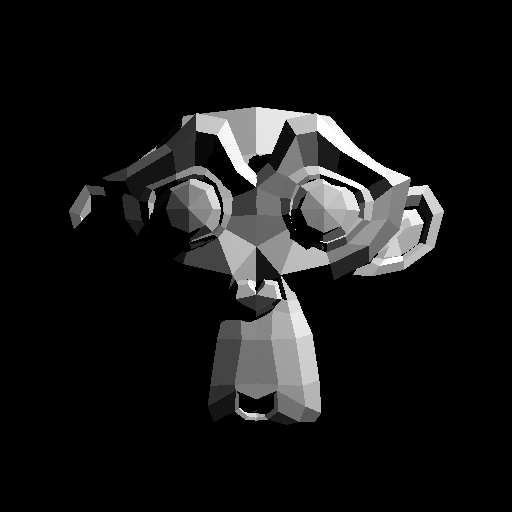
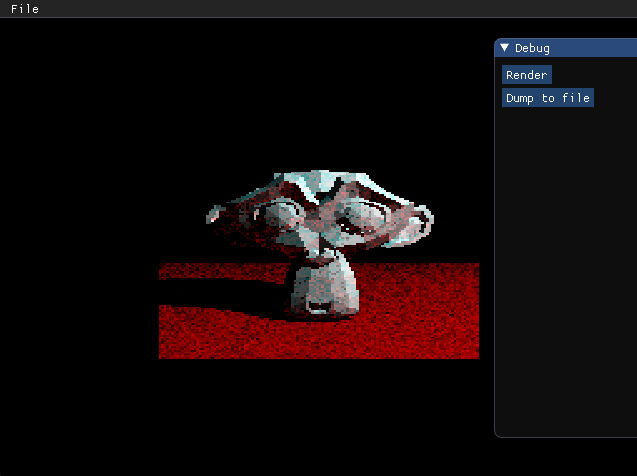
Add indirect sampling, and update README

Changed region(s): [[0.125, 0.2059, 0.875, 0.8235], [0.0, 0.0, 1.0, 0.2353]]

diff --git a/include/scene.h b/include/scene.h
@@ -6,6 +6,7 @@
 
 struct Object {
     glm::vec3 position = glm::vec3(0);
+    glm::vec3 color = glm::vec3(1);
     
     tinyobj::attrib_t attrib;
     std::vector<tinyobj::shape_t> shapes;
@@ -25,42 +26,42 @@ struct Scene {
 };
 
 inline glm::vec3 fetch_position(const Object& object, const tinyobj::mesh_t& mesh, const int32_t index, const int32_t vertex) {
-    tinyobj::index_t idx = mesh.indices[(index * 3) +vertex];
+    const tinyobj::index_t idx = mesh.indices[(index * 3) +vertex];
     
-    tinyobj::real_t vx = object.attrib.vertices[3*idx.vertex_index+0];
-    tinyobj::real_t vy = object.attrib.vertices[3*idx.vertex_index+1];
-    tinyobj::real_t vz = object.attrib.vertices[3*idx.vertex_index+2];
+    const auto vx = object.attrib.vertices[3*idx.vertex_index+0];
+    const auto vy = object.attrib.vertices[3*idx.vertex_index+1];
+    const auto vz = object.attrib.vertices[3*idx.vertex_index+2];
     
     return glm::vec3(vx, vy, vz);
 }
 
 inline glm::vec3 fetch_normal(const Object& object, const tinyobj::mesh_t& mesh, const int32_t index, const int32_t vertex) {
-    tinyobj::index_t idx = mesh.indices[(index * 3) + vertex];
+    const tinyobj::index_t idx = mesh.indices[(index * 3) + vertex];
     
-    tinyobj::real_t nx = object.attrib.normals[3*idx.normal_index+0];
-    tinyobj::real_t ny = object.attrib.normals[3*idx.normal_index+1];
-    tinyobj::real_t nz = object.attrib.normals[3*idx.normal_index+2];
+    const auto nx = object.attrib.normals[3*idx.normal_index+0];
+    const auto ny = object.attrib.normals[3*idx.normal_index+1];
+    const auto nz = object.attrib.normals[3*idx.normal_index+2];
     
     return glm::vec3(nx, ny, nz);
 }
 
 struct HitResult {
     glm::vec3 position, normal;
-    tinyobj::mesh_t* mesh = nullptr;
+    Object object;
 };
 
 std::optional<HitResult> test_mesh(const Ray ray, const Object& object, const tinyobj::mesh_t& mesh, float& tClosest) {
     bool intersection = false;
     HitResult result = {};
     
-    for (size_t i = 0; i < mesh.num_face_vertices.size(); i++) {
+    for(size_t i = 0; i < mesh.num_face_vertices.size(); i++) {
         const glm::vec3 v0 = fetch_position(object, mesh, i, 0) + object.position;
         const glm::vec3 v1 = fetch_position(object, mesh, i, 1) + object.position;
         const glm::vec3 v2 = fetch_position(object, mesh, i, 2) + object.position;
         
         float t = std::numeric_limits<float>::infinity(), u, v;
-        if (intersections::ray_triangle(ray, v0, v1, v2, t, u, v)) {
-            if (t < tClosest && t > epsilon) {
+        if(intersections::ray_triangle(ray, v0, v1, v2, t, u, v)) {
+            if(t < tClosest && t > epsilon) {
                 const glm::vec3 n0 = fetch_normal(object, mesh, i, 0);
                 const glm::vec3 n1 = fetch_normal(object, mesh, i, 1);
                 const glm::vec3 n2 = fetch_normal(object, mesh, i, 2);
@@ -86,13 +87,13 @@ std::optional<HitResult> test_scene(const Ray ray, const Scene& scene, float tCl
     HitResult result = {};
     
     for(auto& object : scene.objects) {
-        for (uint32_t i = 0; i < object.shapes.size(); i++) {
+        for(uint32_t i = 0; i < object.shapes.size(); i++) {
             auto mesh = object.shapes[i].mesh;
             
-            if(auto hit = test_mesh(ray, object, mesh, tClosest)) {
+            if(const auto hit = test_mesh(ray, object, mesh, tClosest)) {
                 intersection = true;
                 result = hit.value();
-                result.mesh = &mesh;
+                result.object = object;
             }
         }
     }
@@ -101,4 +102,87 @@ std::optional<HitResult> test_scene(const Ray ray, const Scene& scene, float tCl
         return result;
     else
         return {};
+}
+
+constexpr glm::vec3 light_position = glm::vec3(5);
+constexpr float light_bias = 0.01f;
+constexpr int max_depth = 2;
+constexpr int num_indirect_samples = 4;
+
+struct SceneResult {
+    HitResult hit;
+    glm::vec3 color, indirect;
+};
+
+// methods adapated from https://users.cg.tuwien.ac.at/zsolnai/gfx/smallpaint/
+inline std::tuple<glm::vec3, glm::vec3> orthogonal_system(const glm::vec3& v1) {
+    glm::vec3 v2;
+    if(glm::abs(v1.x) > glm::abs(v1.y)) {
+        // project to the y = 0 plane and construct a normalized orthogonal vector in this plane
+        const float inverse_length = 1.0f / sqrtf(v1.x * v1.x + v1.z * v1.z);
+        v2 = glm::vec3(-v1.z * inverse_length, 0.0f, v1.x * inverse_length);
+    } else {
+        // project to the x = 0 plane and construct a normalized orthogonal vector in this plane
+        const float inverse_length = 1.0f / sqrtf(v1.y * v1.y + v1.z * v1.z);
+        v2 = glm::vec3(0.0f, v1.z * inverse_length, -v1.y * inverse_length);
+    }
+    
+    return {v2, glm::cross(v1, v2)};
+}
+
+glm::vec3 hemisphere(const double u1, const double u2) {
+    const double r = sqrt(1.0 - u1 * u1);
+    const double phi = 2 * M_PI * u2;
+    
+    return glm::vec3(cos(phi) * r, sin(phi) * r, u1);
+}
+
+std::optional<SceneResult> cast_scene(const Ray ray, const Scene& scene, const int depth = 0) {
+    if(depth > max_depth)
+        return {};
+    
+    if(auto hit = test_scene(ray, scene)) {
+        const float diffuse = lighting::point_light(hit->position, light_position, hit->normal);
+        
+        //shadow calculation
+        glm::vec3 direct(0);
+        if(glm::dot(light_position - hit->position, hit->normal) > 0) {
+            const glm::vec3 light_dir = glm::normalize(light_position - hit->position);
+            
+            const Ray shadow_ray(hit->position + (hit->normal * light_bias), light_dir);
+            
+            const float shadow = test_scene(shadow_ray, scene) ? 0.0f : 1.0f;
+            
+            direct = diffuse * shadow * glm::vec3(1);
+        }
+        
+        glm::vec3 indirect(0);
+        for(int i = 0; i < num_indirect_samples; i++) {
+            const float theta = drand48() * M_PI;
+            const float cos_theta = cos(theta);
+            const float sin_theta = sin(theta);
+            
+            const auto [rotX, rotY] = orthogonal_system(hit->normal);
+            
+            const glm::vec3 sampled_dir = hemisphere(cos_theta, sin_theta);
+            const glm::vec3 rotated_dir = {
+                glm::dot({rotX.x, rotY.x, hit->normal.x}, sampled_dir),
+                glm::dot({rotX.y, rotY.y, hit->normal.y}, sampled_dir),
+                glm::dot({rotX.z, rotY.z, hit->normal.z}, sampled_dir)
+            };
+            
+            if(const auto indirect_result = cast_scene(Ray(ray.origin, rotated_dir), scene, depth + 1))
+                indirect += indirect_result->color * cos_theta;
+        }
+        indirect /= num_indirect_samples;
+        
+        SceneResult result = {};
+        result.hit = *hit;
+        result.color = (indirect + direct) * hit->object.color;
+        result.indirect = indirect;
+        
+        return result;
+    } else {
+        return {};
+    }
 }

diff --git a/src/main.cpp b/src/main.cpp
@@ -23,18 +23,16 @@
 #include <tiny_obj_loader.h>
 
 // scene information
-constexpr int32_t width = 512, height = 512;
-constexpr glm::vec3 light_position = glm::vec3(5);
+constexpr int32_t width = 128, height = 128;
+
 const Camera camera = [] {
     Camera camera;
     camera.look_at(glm::vec3(0, 0, 4), glm::vec3(0));
     
     return camera;
 }();
-constexpr glm::vec3 model_color = glm::vec3(1.0f, 1.0f, 1.0f);
 
 // internal variables
-constexpr float light_bias = 0.01f;
 constexpr int32_t tile_size = 32;
 constexpr int32_t num_tiles_x = width / tile_size;
 constexpr int32_t num_tiles_y = height / tile_size;
@@ -49,22 +47,8 @@ bool calculate_tile(const int32_t from_x, const int32_t to_width, const int32_t 
         for (int32_t x = from_x; x < (from_x + to_width); x++) {
             Ray ray_camera = camera.get_ray(x, y, width, height);
             
-            if (auto hit = test_scene(ray_camera, scene)) {
-                const float diffuse = lighting::point_light(hit->position, light_position, hit->normal);
-                
-                //shadow calculation
-                float shadow = 0.0f;
-                if(glm::dot(light_position - hit->position, hit->normal) > 0) {
-                    const glm::vec3 light_dir = glm::normalize(light_position - hit->position);
-                    
-                    const Ray shadow_ray(hit->position + (hit->normal * light_bias), light_dir);
-                    
-                    if(test_scene(shadow_ray, scene))
-                        shadow = 1.0f;
-                }
-                
-                const glm::vec3 finalColor = model_color * diffuse * (1.0f - shadow);
-                colors.get(x, y) = glm::vec4(finalColor, 1.0f);
+            if(auto result = cast_scene(ray_camera, scene)) {
+                colors.get(x, y) = glm::vec4(result->color, 1.0f);
                 
                 image_dirty = true;
             }
@@ -182,8 +166,8 @@ void render() {
 void dump_to_file() {
     uint8_t pixels[width * height * 3] = {};
     int i = 0;
-    for (int32_t y = height - 1; y >= 0; y--) {
-        for (int32_t x = 0; x < width; x++) {
+    for(int32_t y = height - 1; y >= 0; y--) {
+        for(int32_t x = 0; x < width; x++) {
             const glm::ivec4 c = colors.get(x, y);
             pixels[i++] = c.r;
             pixels[i++] = c.g;
@@ -239,6 +223,7 @@ int main(int, char*[]) {
                     
                     auto& plane = scene.load_from_file("plane.obj");
                     plane.position.y = -1;
+                    plane.color = {1, 0, 0};
                 }
                 
                 ImGui::EndMenu();

diff --git a/include/camera.h b/include/camera.h
@@ -19,7 +19,7 @@ public:
         const float h2 = height / 2.0f;
         const float w2 = width / 2.0f;
         
-        glm::vec3 ray_dir = position + (h2 / tan(glm::radians(fov) / 2)) * direction + (y - h2) * up + (float)(x - w2) * right;
+        const glm::vec3 ray_dir = position + (h2 / tan(glm::radians(fov) / 2)) * direction + (y - h2) * up + static_cast<float>(x - w2) * right;
         return Ray(position, ray_dir);
     }
     
